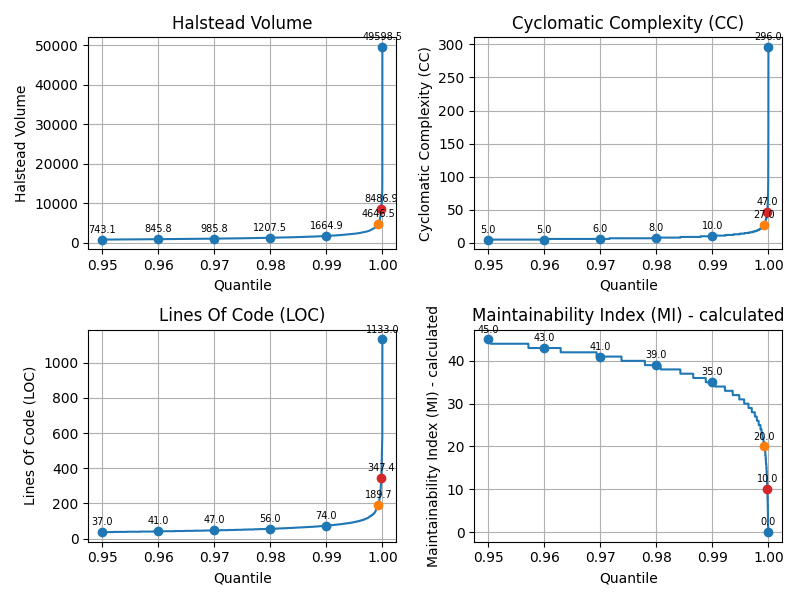
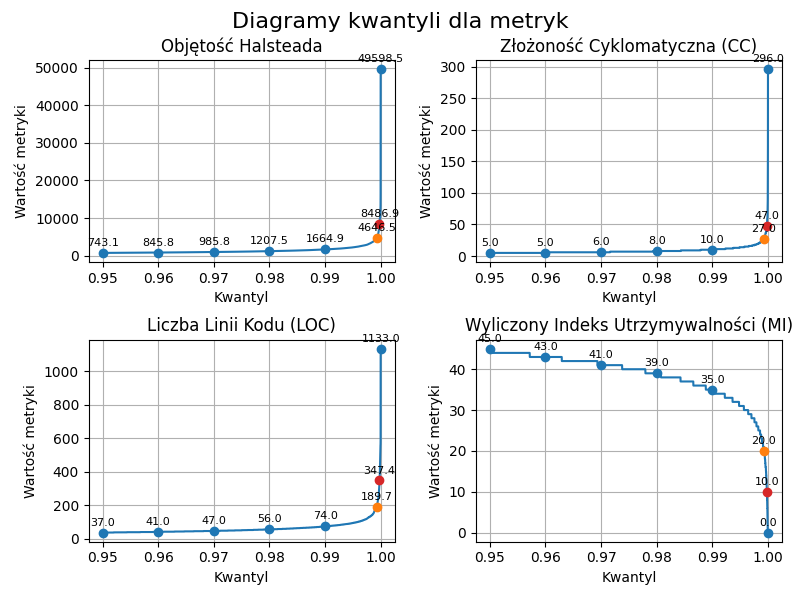
translating labels to polish

diff --git a/main.py b/main.py
@@ -6,12 +6,22 @@ import pandas as pd
 from matplotlib import pyplot as plt
 
 
+translation_map = {
+    'Halstead Volume': 'Objętość Halsteada',
+    'Cyclomatic Complexity (CC)': 'Złożoność Cyklomatyczna (CC)',
+    'Lines Of Code (LOC)': 'Liczba Linii Kodu (LOC)',
+    'Microsoft Maintainability Index (MI)': 'Indeks Utrzymywalności (MI)',
+    'Maintainability Index (MI) - calculated': 'Wyliczony Indeks Utrzymywalności (MI)'
+}
+
+
 def create_histograms_for_all_metrics(csv_filepath, output_filepath):
     data = pd.read_csv(csv_filepath)
     metrics = ['Halstead Volume', 'Cyclomatic Complexity (CC)', 'Lines Of Code (LOC)',
                'Microsoft Maintainability Index (MI)']
     data['Halstead Volume'] = data['Halstead Volume'].round().astype(int)
-    fig, axes = plt.subplots(nrows=2, ncols=2, figsize=(12, 10))
+    fig, axes = plt.subplots(nrows=2, ncols=2, figsize=(8, 6))
+
     axes = axes.flatten()
     for i, metric in enumerate(metrics):
         unique_values = data[metric].nunique()
@@ -28,11 +38,14 @@ def create_histograms_for_all_metrics(csv_filepath, output_filepath):
         else:
             axes[i].hist(data[metric], bins=unique_values, alpha=0.6, color='blue', edgecolor='black')
 
-        axes[i].set_title(metric)
-        axes[i].set_xlabel('Value Range')
-        axes[i].set_ylabel('Frequency')
+        axes[i].set_title(f'{translation_map[metric]}')
+        axes[i].set_xlabel('Wartość metryki')
+        axes[i].set_ylabel('Częstotliwość')
         axes[i].set_yscale('log')
     plt.tight_layout()
+
+    fig.suptitle('Histogramy metryk', fontsize=16)
+    plt.subplots_adjust(top=0.9)
 
     plt.savefig(output_filepath)
     plt.close(fig)
@@ -52,7 +65,7 @@ def plot_percentage_for_thresholds(csv_filepath, output_filepath):
         mi_percentages[mi_value] = (len(filtered_data) / total_records) * 100
     mi_values = list(mi_percentages.keys())
     percentages = list(mi_percentages.values())
-    plt.figure(figsize=(10, 6))
+    plt.figure(figsize=(8, 5))
     plt.plot(mi_values, percentages, color='blue', marker='.', linestyle='--', linewidth=0.6)
     for mi, percentage in zip(mi_values, percentages):
         if mi % 5 == 0:
@@ -67,9 +80,9 @@ def plot_percentage_for_thresholds(csv_filepath, output_filepath):
                          textcoords="offset points",
                          xytext=(0, 10),
                          ha='center')
-    plt.xlabel('Microsoft Maintainability Index (MI)')
-    plt.ylabel('Percentage of Records below threshold MI value (%)')
-    plt.title('Cumulative Percentage of Records by MI Value')
+    plt.xlabel(translation_map['Microsoft Maintainability Index (MI)'])
+    plt.ylabel('Procent badanych metod (%)')
+    plt.title('Procent badanych metod mających wartość MI poniżej wartości progowej')
     plt.xticks(range(10, 51, 5))
     plt.grid(True, which='both', linestyle='--', linewidth=0.3)
     plt.savefig(output_filepath)
@@ -83,7 +96,7 @@ def plot_quantile_threshold_for_mi(csv_filepath, output_filepath):
     quantile_df = pd.DataFrame(index=quantile_values, columns=[metric])
     for q in quantile_values:
         quantile_df.loc[q, metric] = data[metric].quantile(q)
-    plt.figure(figsize=(10, 5))
+    plt.figure(figsize=(8, 5))
     plt.plot(quantile_df.index, quantile_df[metric], linestyle='-')
 
     annotate_value(10, 'tab:red', quantile_df, metric)
@@ -92,9 +105,9 @@ def plot_quantile_threshold_for_mi(csv_filepath, output_filepath):
     annotate_value(30, 'tab:blue', quantile_df, metric)
     annotate_value(35, 'tab:blue', quantile_df, metric)
     annotate_value(40, 'tab:blue', quantile_df, metric)
-    plt.title('Quantile Plot of Microsoft Maintainability Index (MI)')
-    plt.xlabel('Quantile')
-    plt.ylabel(metric)
+    plt.title('Diagram kwantyli dla metryki MI')
+    plt.xlabel('Kwantyl')
+    plt.ylabel(translation_map[metric])
     plt.grid(True)
     plt.savefig(output_filepath)
     print(f'Plot saved as {output_filepath}')
@@ -107,7 +120,7 @@ def annotate_value(value, color, quantile_df, metric):
         plt.plot(q, value, marker='o', color=color)
         plt.annotate(
             f'{q:.5f}',
-            xy=(q + 0.001, value - 2),
+            xy=(q + 0.0015, value - 2),
             ha='center'
         )
 
@@ -150,9 +163,9 @@ def plot_calculated_mi_from_component_quantile_thresholds(csv_filepath, output_f
         if not quantile_df[quantile_df['Maintainability Index (MI) - calculated'] == 20].empty else None
     for i, metric in enumerate(metrics_to_display):
         ax[i].plot(quantile_df.index, quantile_df[metric])
-        ax[i].set_title(metric)
-        ax[i].set_xlabel('Quantile')
-        ax[i].set_ylabel(metric)
+        ax[i].set_title(translation_map[metric])
+        ax[i].set_xlabel('Kwantyl')
+        ax[i].set_ylabel('Wartość metryki')
         ax[i].grid(True)
         for q in annotation_indices:
             ax[i].plot(q, quantile_df.loc[q, metric], marker='o', color='tab:blue')
@@ -162,7 +175,7 @@ def plot_calculated_mi_from_component_quantile_thresholds(csv_filepath, output_f
                 textcoords="offset points",
                 xytext=(0, 5),
                 ha='center',
-                fontsize=7
+                fontsize=8
             )
         ax[i].plot(special_index_10, quantile_df.loc[special_index_10, metric], marker='o', color='tab:red')
         ax[i].annotate(
@@ -171,7 +184,7 @@ def plot_calculated_mi_from_component_quantile_thresholds(csv_filepath, output_f
             textcoords="offset points",
             xytext=(0, 5),
             ha='center',
-            fontsize=7
+            fontsize=8
         )
         ax[i].plot(special_index_20, quantile_df.loc[special_index_20, metric], marker='o', color='tab:orange')
         ax[i].annotate(
@@ -180,10 +193,14 @@ def plot_calculated_mi_from_component_quantile_thresholds(csv_filepath, output_f
             textcoords="offset points",
             xytext=(0, 5),
             ha='center',
-            fontsize=7
+            fontsize=8
         )
     plt.subplots_adjust(hspace=0.3)
     plt.tight_layout()
+
+    fig.suptitle('Diagramy kwantyli dla metryk', fontsize=16)
+    plt.subplots_adjust(top=0.9)
+
     plt.savefig(output_filepath)
     print(f'Plot saved as {output_filepath}')
 
@@ -195,7 +212,7 @@ def calculate_maintainability_index(halstead_volume, cc, loc):
 if __name__ == '__main__':
     timestamp = datetime.now().strftime("%Y%m%d%H%M%S")
     csv_file = 'raport.csv'
-    plot_percentage_for_thresholds(csv_file, f'./plots/plot_cumulative_percentage_by_mi_{timestamp}.png')
-    create_histograms_for_all_metrics(csv_file, f'./plots/plot_output_{timestamp}.png')
-    plot_quantile_threshold_for_mi(csv_file, f'./plots/plot_quantiles_for_mi_{timestamp}.png')
-    plot_calculated_mi_from_component_quantile_thresholds(csv_file,f'./plots/plot_quantiles_for_components_{timestamp}.png')
+    create_histograms_for_all_metrics(csv_file, f'./plots/plot_histograms_for_all_metrics.png')
+    plot_percentage_for_thresholds(csv_file, f'./plots/plot_cumulative_percentage_by_mi.png')
+    plot_calculated_mi_from_component_quantile_thresholds(csv_file,f'./plots/plot_quantiles_for_components.png')
+    plot_quantile_threshold_for_mi(csv_file, f'./plots/plot_quantiles_for_mi.png')

diff --git a/README.md b/README.md
@@ -1,1 +1,8 @@
 # MI Counter
+![](plots/plot_histograms_for_all_metrics.png)
+
+![](plots/plot_cumulative_percentage_by_mi.png)
+
+![](plots/plot_quantiles_for_components.png)
+
+![](plots/plot_quantiles_for_mi.png)
